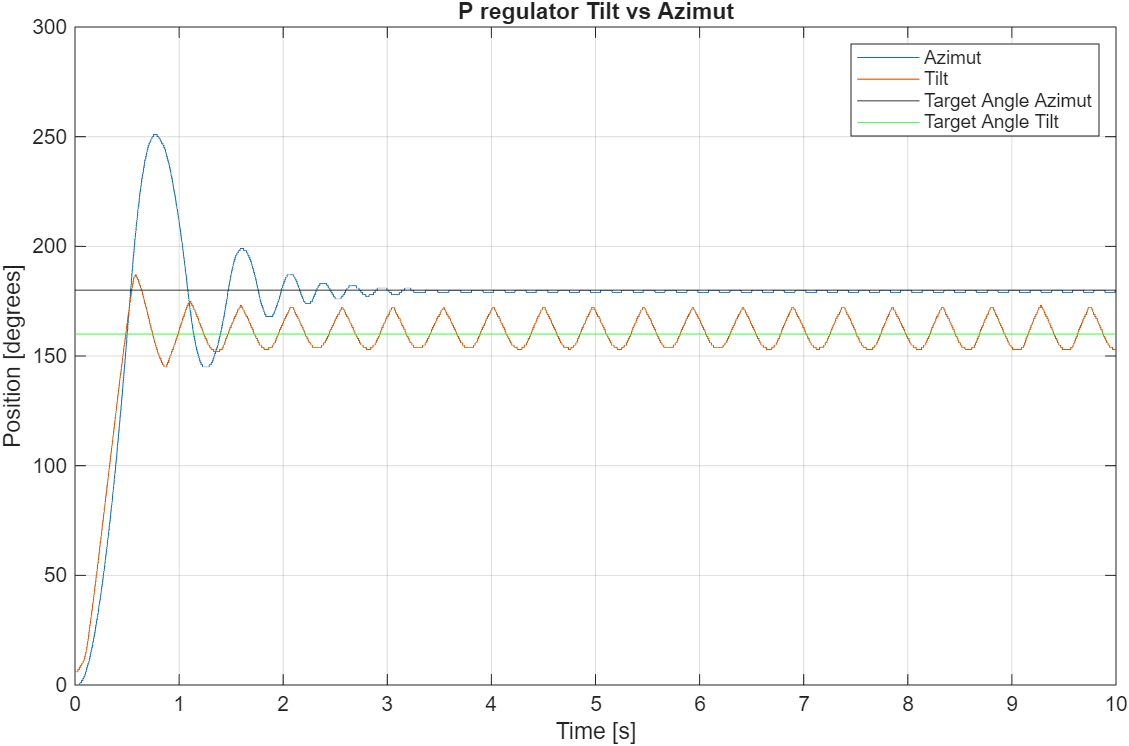
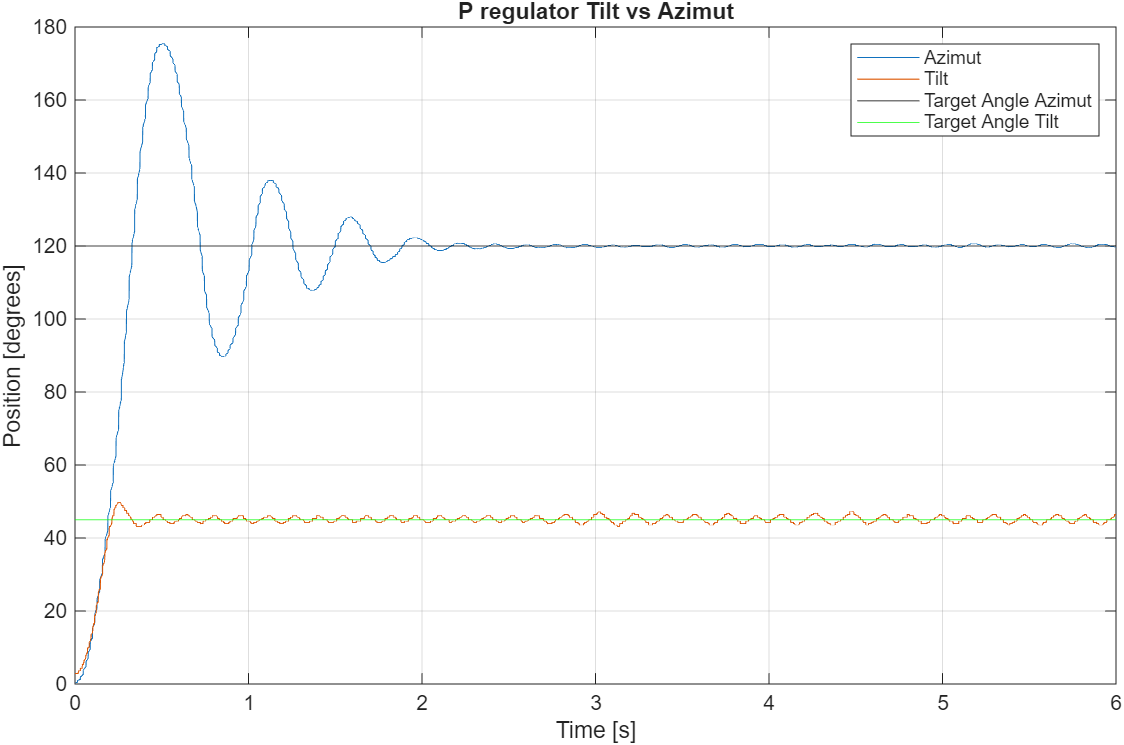
Control plots and matlab script update

diff --git a/04 Prototype udvikling/2 akset rotation/08 Control/Physical test data/Matlab_plots.m b/04 Prototype udvikling/2 akset rotation/08 Control/Physical test data/Matlab_plots.m
@@ -19,21 +19,22 @@ CL_tilt=(d_tilt*sys_tilt)/(1+d_tilt*sys_tilt);
 
 
 %% ------- plot for TARP motor code V3.3 -----------------
-% x_azi = (0:numel(x24_83TiltGain)-1)*10^(-4);
-% x_tilt = (0:numel(x4_32AziGain)-1)*10^(-4);
-% figure
-% plot(x_azi,x4_32AziGain.Position, DisplayName="Azimut")
-% hold on
-% plot(x_tilt,x24_83TiltGain.Position, DisplayName="Tilt")
-% hold off
-% grid on
-% yline(180,color='black', DisplayName="Target Angle Azimut")
-% yline(160, color = 'green', DisplayName="Target Angle Tilt")
-% ylabel("Position [degrees]")
-% xlabel("Time [s]")
-% title("P regulator Tilt vs Azimut")
-% % xlim([0 4.5])
-% legend show
+x_azi = (0:numel(x4_32AziGain_20kHzPWM)-1)' * 0.0005;
+x_tilt = (0:numel(x24_83TiltGain_20kHz)-1)' *0.0005 ;
+figure
+plot(x_azi,120/90*x4_32AziGain_20kHzPWM.Position, DisplayName="Azimut")
+hold on
+plot(x_tilt,x24_83TiltGain_20kHz.GiveMeAnAngle, DisplayName="Tilt")
+hold off
+grid on
+yline(120,color='black', DisplayName="Target Angle Azimut")
+yline(45, color = 'green', DisplayName="Target Angle Tilt")
+ylabel("Position [degrees]")
+xlabel("Time [s]")
+xlim([0, 6])
+title("P regulator Tilt vs Azimut")
+% xlim([0 4.5])
+legend show
 
 
 
@@ -44,21 +45,21 @@ x_azi = (0:numel(x4_32AziGain_20kHzPWM)-1)' * 0.0005;
 
 Ts = 1e-4;                 % same as real data
 t_azi = 0:Ts:x_azi(end);   % simulation time vector
-u = 90 * ones(size(t_azi));   % step input
+u = 120 * ones(size(t_azi));   % step input
 
 azi_sim = lsim(CL_azi, u, t_azi);
 
 % --- Plot ---
 figure
-plot(x_azi, x4_32AziGain_20kHzPWM.Position, 'DisplayName','Physical version')
+plot(x_azi, 120/90*x4_32AziGain_20kHzPWM.Position, 'DisplayName','Physical version')
  hold on
 plot(t_azi, azi_sim, 'DisplayName','Simulated version')
-yline(90, 'DisplayName','Target')
+yline(120, 'DisplayName','Target')
 grid on
 xlabel('Time [s]')
 ylabel('Position [degrees]')
 xlim([0, 6])
-ylim([0, 160])
+ylim([0, 210])
 legend show
 title('Azimuth P regulator: simulated vs physical')
 

diff --git a/04 Prototype udvikling/2 akset rotation/08 Control/matlab.m b/04 Prototype udvikling/2 akset rotation/08 Control/matlab.m
@@ -4,8 +4,11 @@ close all;
 clear all;
 
 s=tf('s');
-sys_azi=(17.63*10^3)/(s*((7.73*s+3.97)*(724.31+1.88*s)+17.63*810.90));
-sys_tilt=(404.91* 10^3)/(s*((15.44*s + 5.16)*(6.73* 10^3 + 3.87*s) + 404.91*285.57));
+sys_azi=24.83*(17.63*10^3)/(s*((7.73*s+3.97)*(724.31+1.88*s)+17.63*810.90));
+sys_tilt=4.32*(404.91* 10^3)/(s*((15.44*s + 5.16)*(6.73* 10^3 + 3.87*s) + 404.91*285.57));
+
+
+
 
 figure;
 bode(sys_azi, sys_tilt)
@@ -23,7 +26,7 @@ axesHandles = findall(h,'type','axes');
 magAx = axesHandles(1);
 phaseAx = axesHandles(2); 
 
-ylim(magAx, [-40, 10]);
+ylim(magAx, [-40, 40]);
 xlim(magAx, [1 15]);
 xlim(phaseAx, [1 15]);
 ylim(phaseAx, [-180,-90]);
